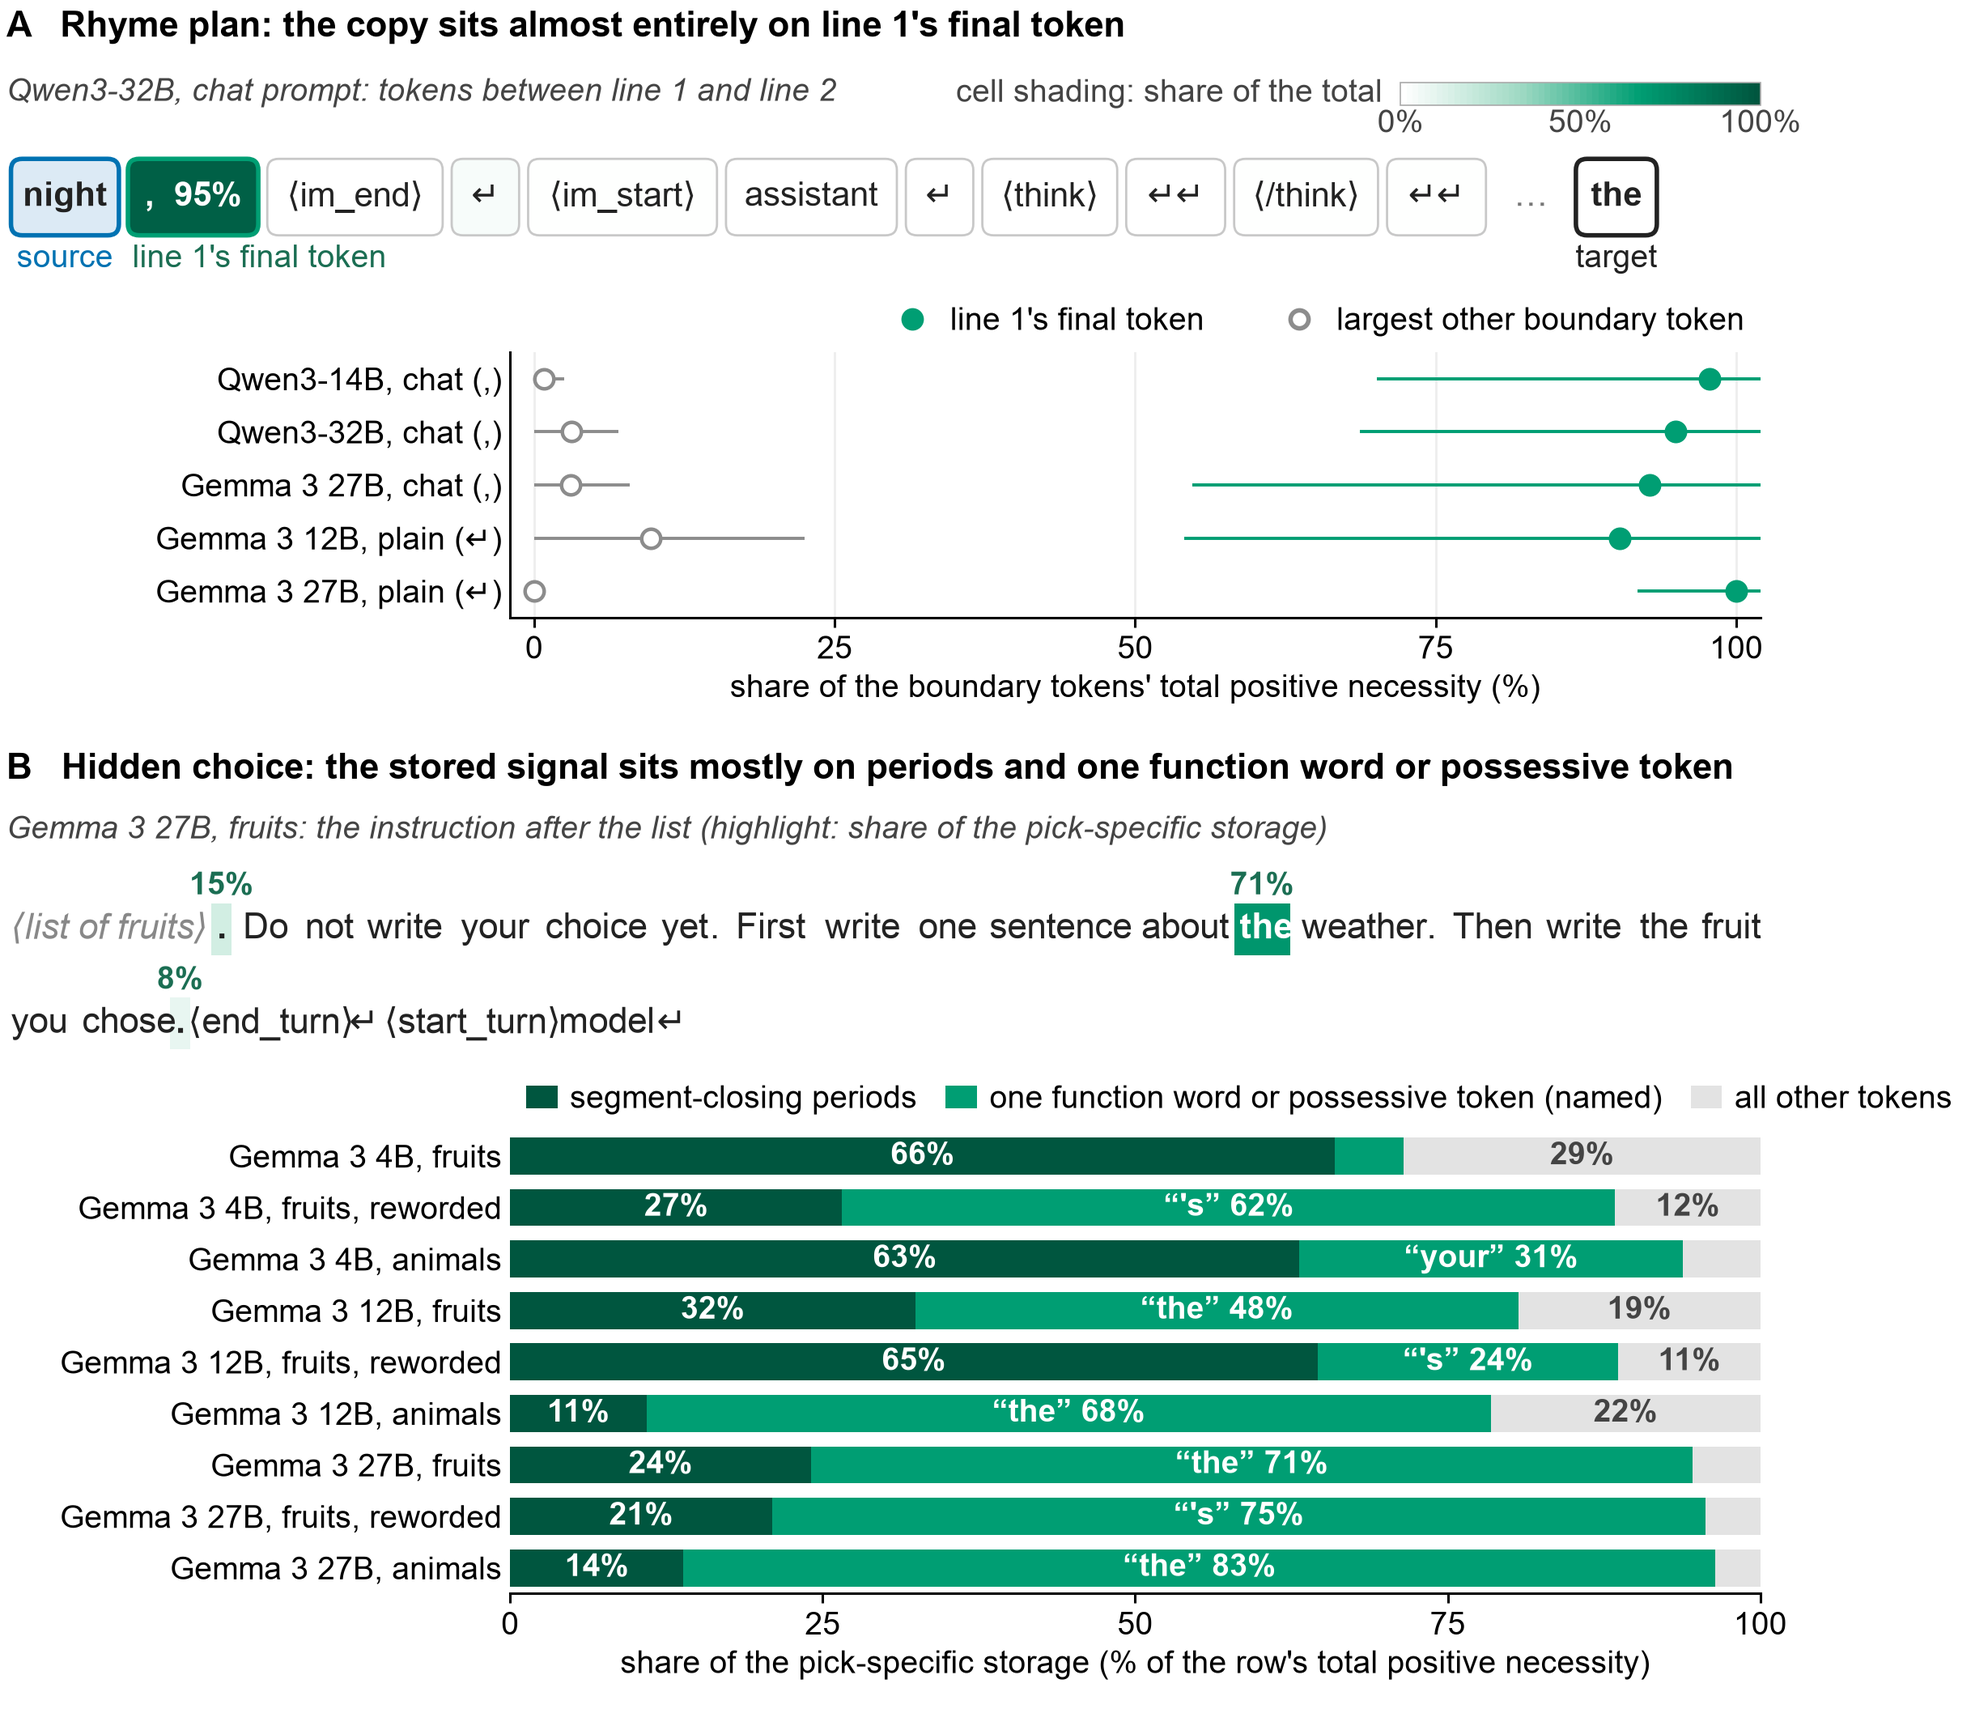
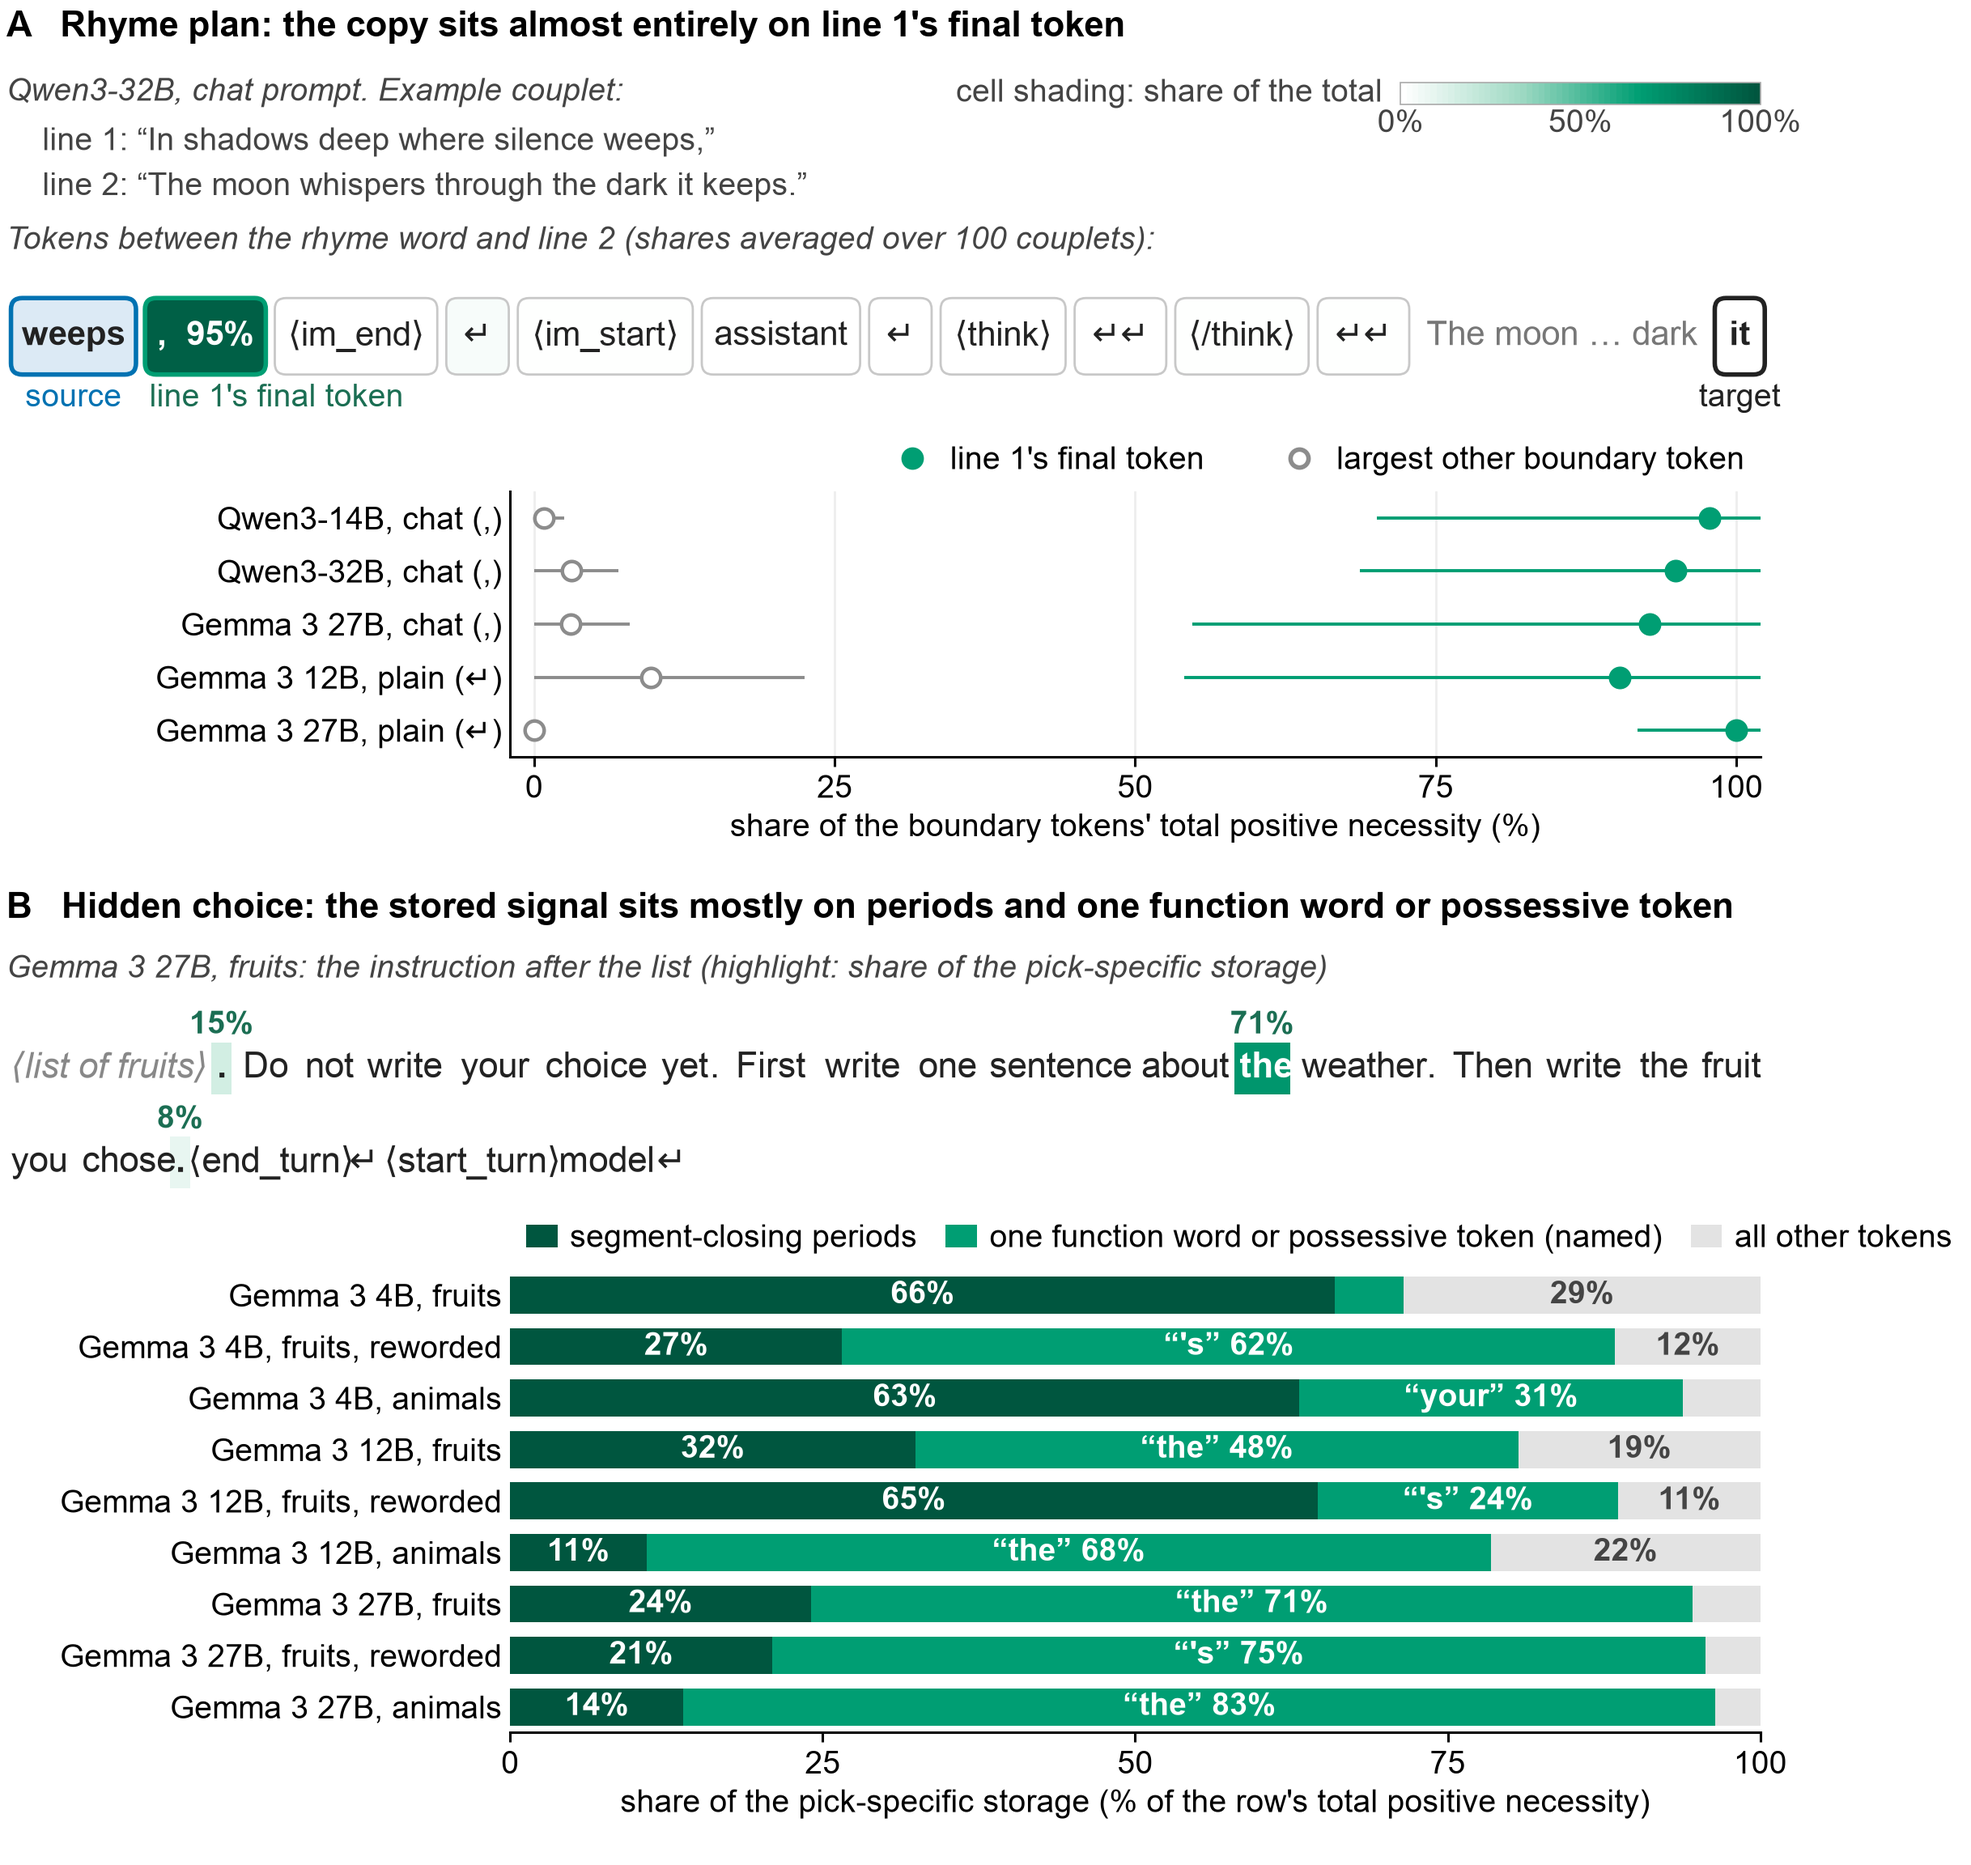
Figure 3A shows a real example couplet

Changed region(s): [[0.0, 0.0, 0.9988, 0.9906], [0.7491, 0.5263, 0.9051, 0.5882]]

diff --git a/manuscript/figures/make_iclr_figures.py b/manuscript/figures/make_iclr_figures.py
@@ -772,11 +772,17 @@ def fig3():
         toks = [x["token"] for x in ex["necessity_by_token"]]
         sh, _ = pos_share([x["mean"] for x in ex["necessity_by_token"]])
         k = line_end_index(toks)
-        bg.text(0, y, "Qwen3-32B, chat prompt: tokens between line 1 and line 2", fontsize=7,
+        bg.text(0, y, "Qwen3-32B, chat prompt. Example couplet:", fontsize=7, style="italic", color="#444444", va="top")
+        y += 11
+        bg.text(8, y, "line 1: \u201cIn shadows deep where silence weeps,\u201d", fontsize=7, color="#444444", va="top")
+        y += 10
+        bg.text(8, y, "line 2: \u201cThe moon whispers through the dark it keeps.\u201d", fontsize=7, color="#444444", va="top")
+        y += 12
+        bg.text(0, y, "Tokens between the rhyme word and line 2 (shares averaged over 100 couplets):", fontsize=7,
                 style="italic", color="#444444", va="top")
-        y += 18
-        cells = [("night", "src", None)] + [(pretty(t), "end" if i == k else "tpl", sh[i])
-                                            for i, t in enumerate(toks)] + [("…", "gap", None), ("the", "tgt", None)]
+        y += 16
+        cells = [("weeps", "src", None)] + [(pretty(t), "end" if i == k else "tpl", sh[i])
+                                            for i, t in enumerate(toks)] + [("The moon \u2026 dark", "gap", None), ("it", "tgt", None)]
         fs, ch, gap = 7.5, 17.0, 2.0
         widths = [text_width(c[0] + (f"  {100 * c[2]:.0f}%" if c[1] == "end" else ""), fs) + 8 for c in cells]
         scale = min(1.0, (Wpt - 4 - gap * len(cells)) / sum(widths))
